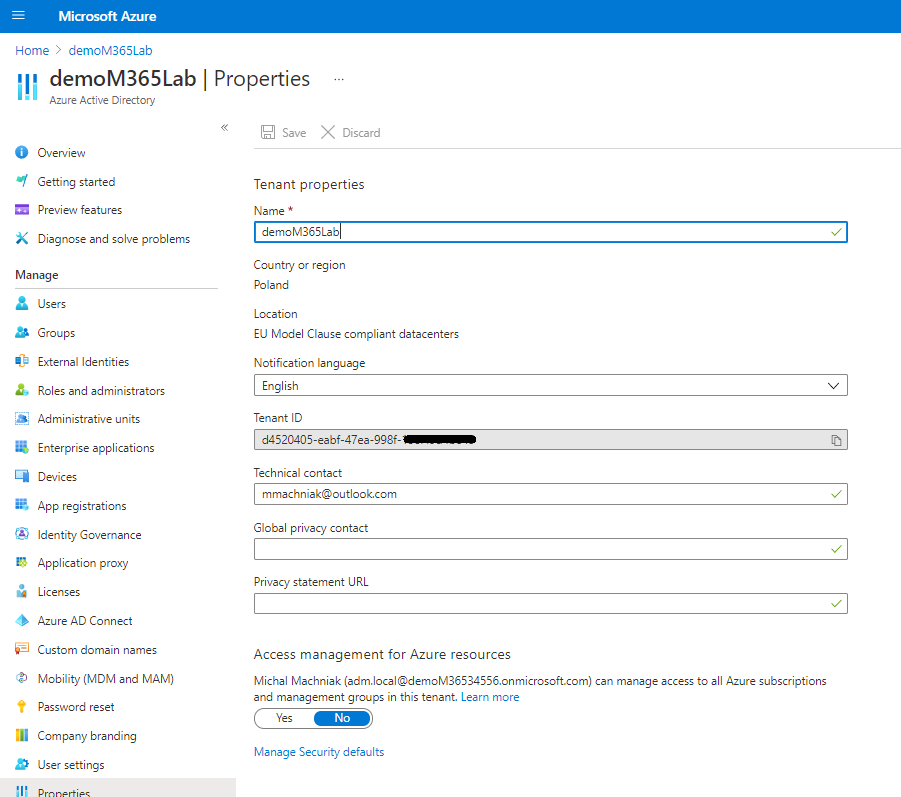
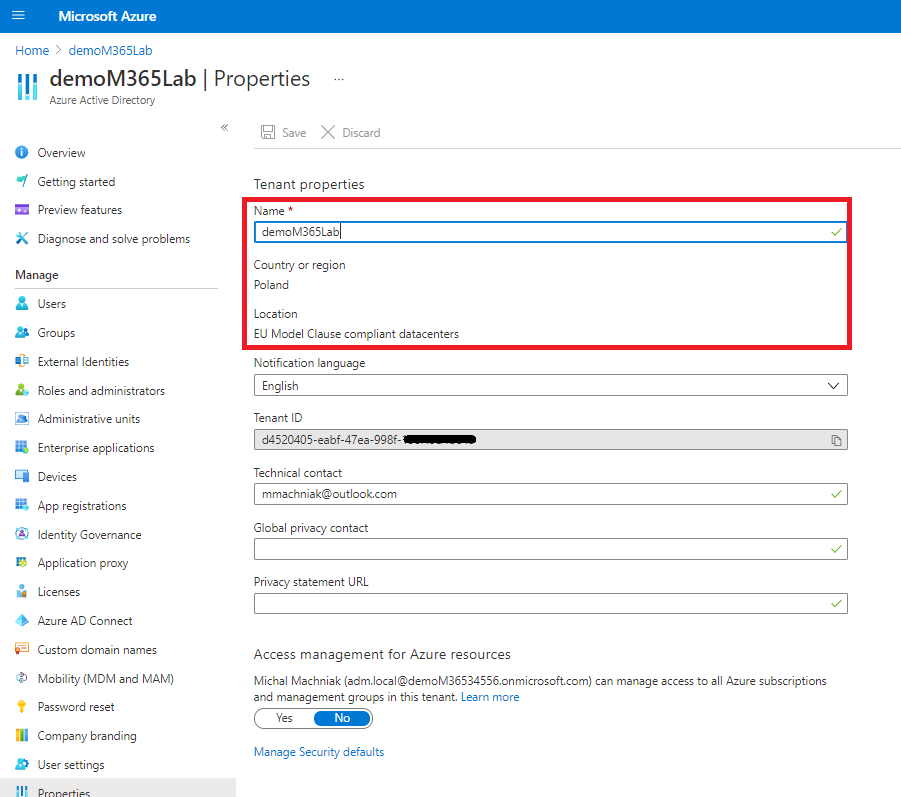
M365 Lab

Changed region(s): [[0.2486, 0.2409, 0.9634, 0.4517]]

diff --git a/_posts/2021-04-17-M365-Lab-Setup-Office-and-Intune.md b/_posts/2021-04-17-M365-Lab-Setup-Office-and-Intune.md
@@ -62,13 +62,14 @@ Before we begin with this you will need to consider few things:
 Microsoft for make simple onboarding organization to Office365 or Azure, sometimes provsion tenant automatical without passing any information, as the name of tenant is using e-mail address and location is take form oure accounts.   
 **Example** of this scenario
  - MSDN Subscriptions.
- - Azure free trial Subscriptions.
+ - Azure free trial Subscriptions.  
 
- **LAB** that is not connected to our organization this name nad location dosen't matter, but if we will create **PoC** or **Pilot** tenant that in feature can be converted to production we have to be more awere when is created and what name is used.  
+ **LAB** Tenant and won't be used for production so in this case name nad location dosen't matter, but if we will create **PoC** or **Pilot** tenant that in feature can be converted to production we have to be more awere when data will be stored and what name is used.  
 
 >
 > **Notice:** Tenant **"Location"** have impact on services that we can use in Office 365, for example **Phone Systems**
->
+>  
+
 ### Create Azure Active Directory Tenant
 
 **Step 1:** Open a browser in InPrivate session, and navigate in browser to https://account.azure.com/organization
@@ -101,6 +102,21 @@ Microsoft for make simple onboarding organization to Office365 or Azure, sometim
 ![](/assets/images/M365-Lab/M365-Tenant-4.png)
 
 ![](/assets/images/M365-Lab/M365-Tenant-5.png)
+
+**Step 5:** Finish createion of tenant.
+
+![](/assets/images/M365-Lab/M365-Tenant-6.png)
+
+**Step 6:** Veryfication of tenant settings. Log on to Azure Active Directory admin center by URL: [https://aad.portal.azure.com/](https://aad.portal.azure.com/)
+
+In Azure Active Directory Portal navigate to **"Overview"**  
+
+![](/assets/images/M365-Lab/M365-Tenant-7.png)  
+
+In Azure Active Directory Portal navigate to **"Properties"**
+
+![](/assets/images/M365-Lab/M365-Tenant-8.png)  
+
 ## Custom domian for LAB propuse without paying (LAB / PoC)
 
 ## Custom domian for pilot or production
